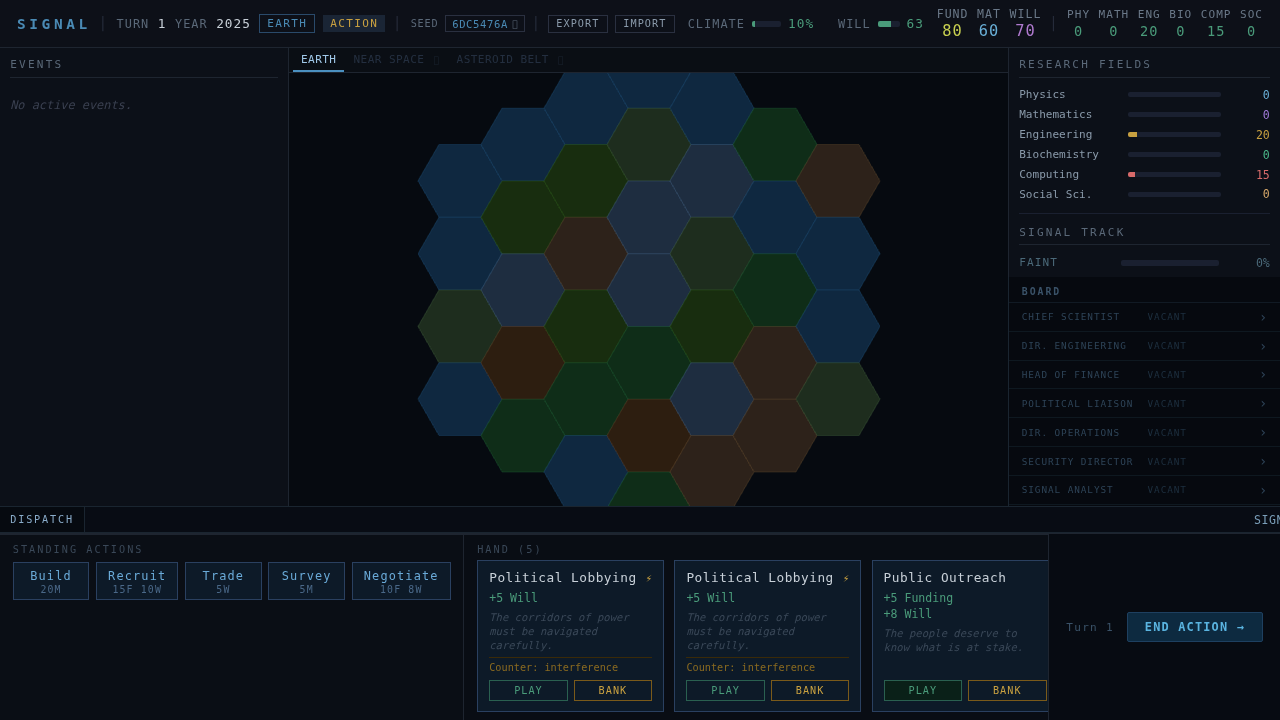
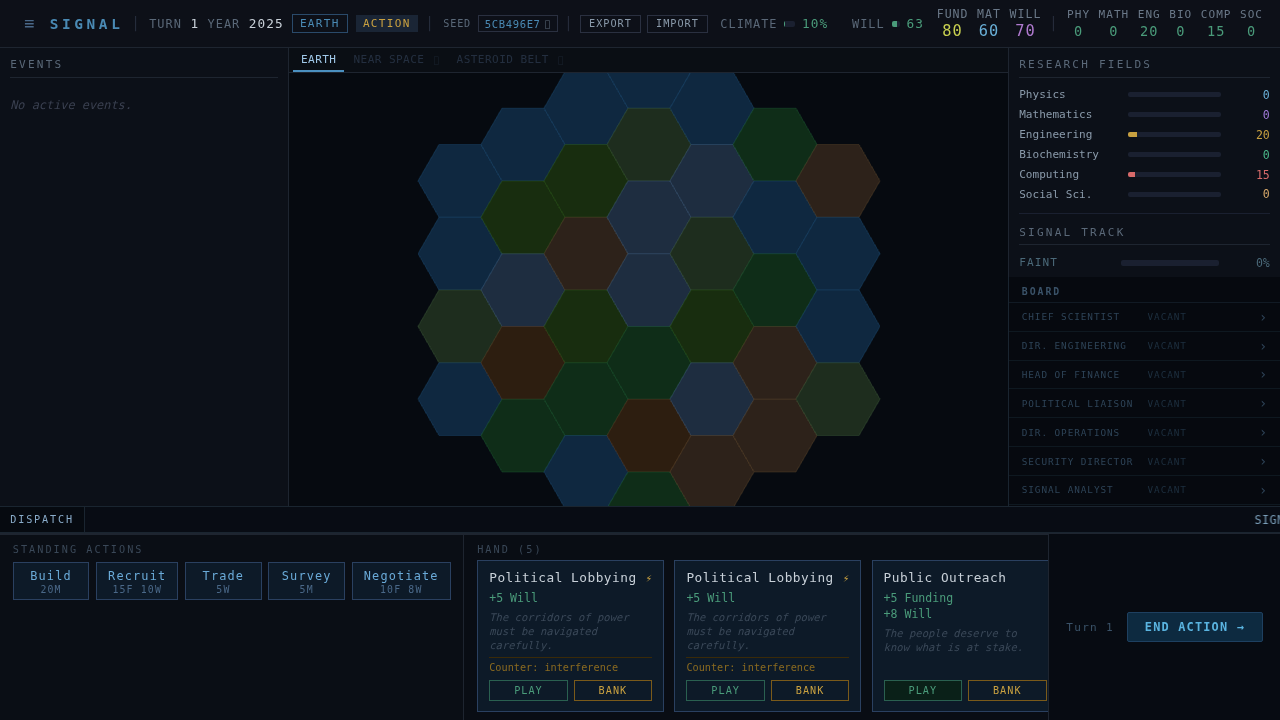
Add HUD dropdown menu with restart, new-game, and settings options
- ≡ button in top-left opens dropdown with RESTART GAME, NEW GAME SETUP, SETTINGS
- Dropdown uses position:fixed + getBoundingClientRect() to escape HUD overflow:hidden
- Wire onRestart/onNewGame/onSettings props through to game store actions
- Add Playwright e2e tests for: setup screen, build facility, phase advance, hud menu

Changed region(s): [[0.0312, 0.0, 0.5938, 0.0611], [0.625, 0.0306, 0.6875, 0.0611], [0.9688, 0.7028, 1.0, 0.7333]]

diff --git a/src/lib/components/HUD.svelte b/src/lib/components/HUD.svelte
@@ -14,6 +14,9 @@
     seed,
     onExport,
     onImport,
+    onRestart,
+    onNewGame,
+    onSettings,
   }: {
     resources: Resources;
     fields: FieldPoints;
@@ -26,7 +29,22 @@
     seed: string;
     onExport: () => void;
     onImport: (file: File) => Promise<void>;
+    onRestart: () => void;
+    onNewGame: () => void;
+    onSettings: () => void;
   } = $props();
+
+  let menuOpen = $state(false);
+  let dropdownPos = $state({ top: 0, left: 0 });
+
+  function toggleMenu(event: MouseEvent): void {
+    if (!menuOpen) {
+      const rect = (event.currentTarget as HTMLElement).getBoundingClientRect();
+      dropdownPos = { top: rect.bottom + 4, left: rect.left };
+    }
+    menuOpen = !menuOpen;
+  }
+  function closeMenu(): void { menuOpen = false; }
 
   const ERA_LABELS: Record<Era, string> = {
     earth: 'EARTH',
@@ -68,6 +86,26 @@
 
 <header class="hud">
   <div class="hud-left">
+    <div class="menu-wrapper">
+      <button class="menu-btn" onclick={(e) => toggleMenu(e)} aria-label="Game menu" aria-expanded={menuOpen}>
+        ≡
+      </button>
+      {#if menuOpen}
+        <div class="menu-backdrop" onclick={closeMenu} role="none" tabindex="-1" onkeydown={() => {}}></div>
+        <div class="menu-dropdown" style="top: {dropdownPos.top}px; left: {dropdownPos.left}px;">
+          <button class="menu-item" onclick={() => { closeMenu(); onRestart(); }}>
+            RESTART GAME
+          </button>
+          <button class="menu-item" onclick={() => { closeMenu(); onNewGame(); }}>
+            NEW GAME SETUP
+          </button>
+          <div class="menu-divider"></div>
+          <button class="menu-item" disabled onclick={() => { closeMenu(); onSettings(); }}>
+            SETTINGS
+          </button>
+        </div>
+      {/if}
+    </div>
     <span class="logo">SIGNAL</span>
     <span class="divider">│</span>
     <span class="label">TURN</span><span class="value">{turn}</span>
@@ -157,6 +195,84 @@
     gap: 0.5rem;
     flex-shrink: 0;
   }
+
+  /* ---- Menu ---- */
+
+  .menu-wrapper {
+    position: relative;
+  }
+
+  .menu-btn {
+    background: transparent;
+    border: 1px solid transparent;
+    color: #4a6888;
+    font-family: inherit;
+    font-size: 1rem;
+    line-height: 1;
+    padding: 0.1rem 0.35rem;
+    cursor: pointer;
+    border-radius: 2px;
+    transition: color 0.15s, border-color 0.15s;
+  }
+
+  .menu-btn:hover,
+  .menu-btn[aria-expanded="true"] {
+    color: #8aacca;
+    border-color: #2a4060;
+  }
+
+  .menu-backdrop {
+    position: fixed;
+    inset: 0;
+    z-index: 99;
+  }
+
+  .menu-dropdown {
+    position: fixed;
+    z-index: 100;
+    background: #0a1018;
+    border: 1px solid #2a3a50;
+    min-width: 13rem;
+    display: flex;
+    flex-direction: column;
+    box-shadow: 0 4px 16px rgba(0, 0, 0, 0.6);
+  }
+
+  .menu-item {
+    background: transparent;
+    border: none;
+    border-bottom: 1px solid #1a2535;
+    color: #8aacca;
+    font-family: inherit;
+    font-size: 0.7rem;
+    letter-spacing: 0.1em;
+    padding: 0.55rem 0.9rem;
+    text-align: left;
+    cursor: pointer;
+    transition: background 0.12s, color 0.12s;
+  }
+
+  .menu-item:last-child {
+    border-bottom: none;
+  }
+
+  .menu-item:hover:not(:disabled) {
+    background: #121e2e;
+    color: #c8ddf0;
+  }
+
+  .menu-item:disabled {
+    color: #3a4a5a;
+    cursor: not-allowed;
+  }
+
+  .menu-divider {
+    height: 1px;
+    background: #1a2535;
+    margin: 0.1rem 0;
+  }
+
+  /* ---- Logo ---- */
 
   .logo {
     font-size: 0.85rem;

diff --git a/e2e/game-flow.spec.ts b/e2e/game-flow.spec.ts
@@ -71,7 +71,25 @@ test('build facility — open picker, build, verify on map', async ({ page }) =>
 });
 
 // ---------------------------------------------------------------------------
-// Test 4 — Advance through phases to Turn 2
+// Test 4 — HUD menu opens and shows all three items
+// ---------------------------------------------------------------------------
+
+test('hud menu — opens with restart, new game, settings options', async ({ page }) => {
+  await startNewGame(page);
+
+  // Open the menu and wait for dropdown to appear in the DOM
+  await page.click('.menu-btn');
+  await page.waitForSelector('.menu-dropdown');
+  await page.screenshot({ path: 'screenshots/08-hud-menu-open.png', fullPage: true });
+
+  // Close by clicking backdrop, wait for dropdown to disappear
+  await page.click('.menu-backdrop');
+  await page.waitForSelector('.menu-dropdown', { state: 'hidden' });
+  await page.screenshot({ path: 'screenshots/09-hud-menu-closed.png', fullPage: true });
+});
+
+// ---------------------------------------------------------------------------
+// Test 5 — Advance through phases to Turn 2
 // ---------------------------------------------------------------------------
 
 test('phase advance — action → bank → turn 2', async ({ page }) => {

diff --git a/src/routes/+page.svelte b/src/routes/+page.svelte
@@ -54,6 +54,9 @@
       seed={gs.seed}
       onExport={() => gameStore.exportSave()}
       onImport={(file) => gameStore.importSaveFile(file)}
+      onRestart={() => gameStore.startNewGame(gs.seed, gs.player.blocDefId, gs.pushFactor)}
+      onNewGame={() => gameStore.resetGame()}
+      onSettings={() => {}}
     />
 
     <!-- Middle row -->
